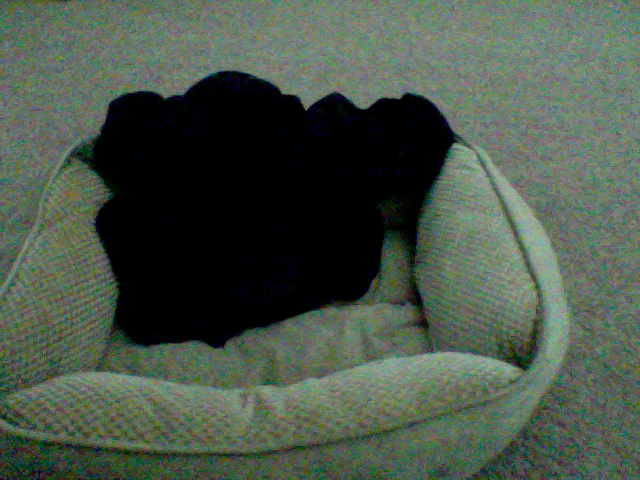
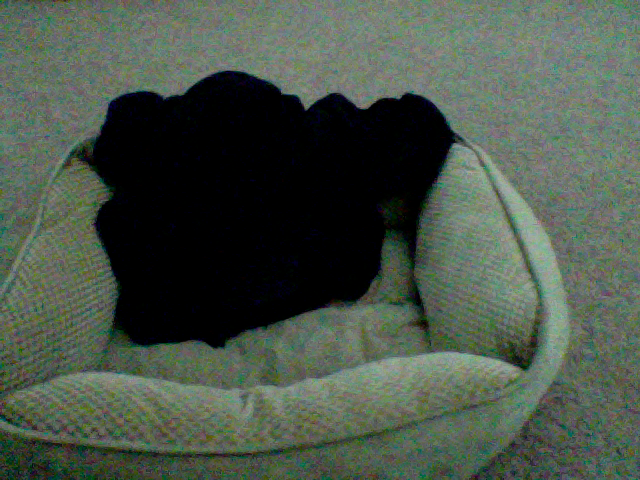
update at Month05Day08Time10:06

Changed region(s): [[0.0, 0.0, 1.0, 1.0]]

diff --git a/index.html b/index.html
@@ -39,7 +39,7 @@
       <!-- Example row of columns -->
       <div class="row">
         <div class="col-md-4">
-	<p>This picture was updated at Month05Day08Time10:05</p>
+	<p>This picture was updated at Month05Day08Time10:06</p>
 		<img src="9_pic.png" />
         </div>
       </div>
